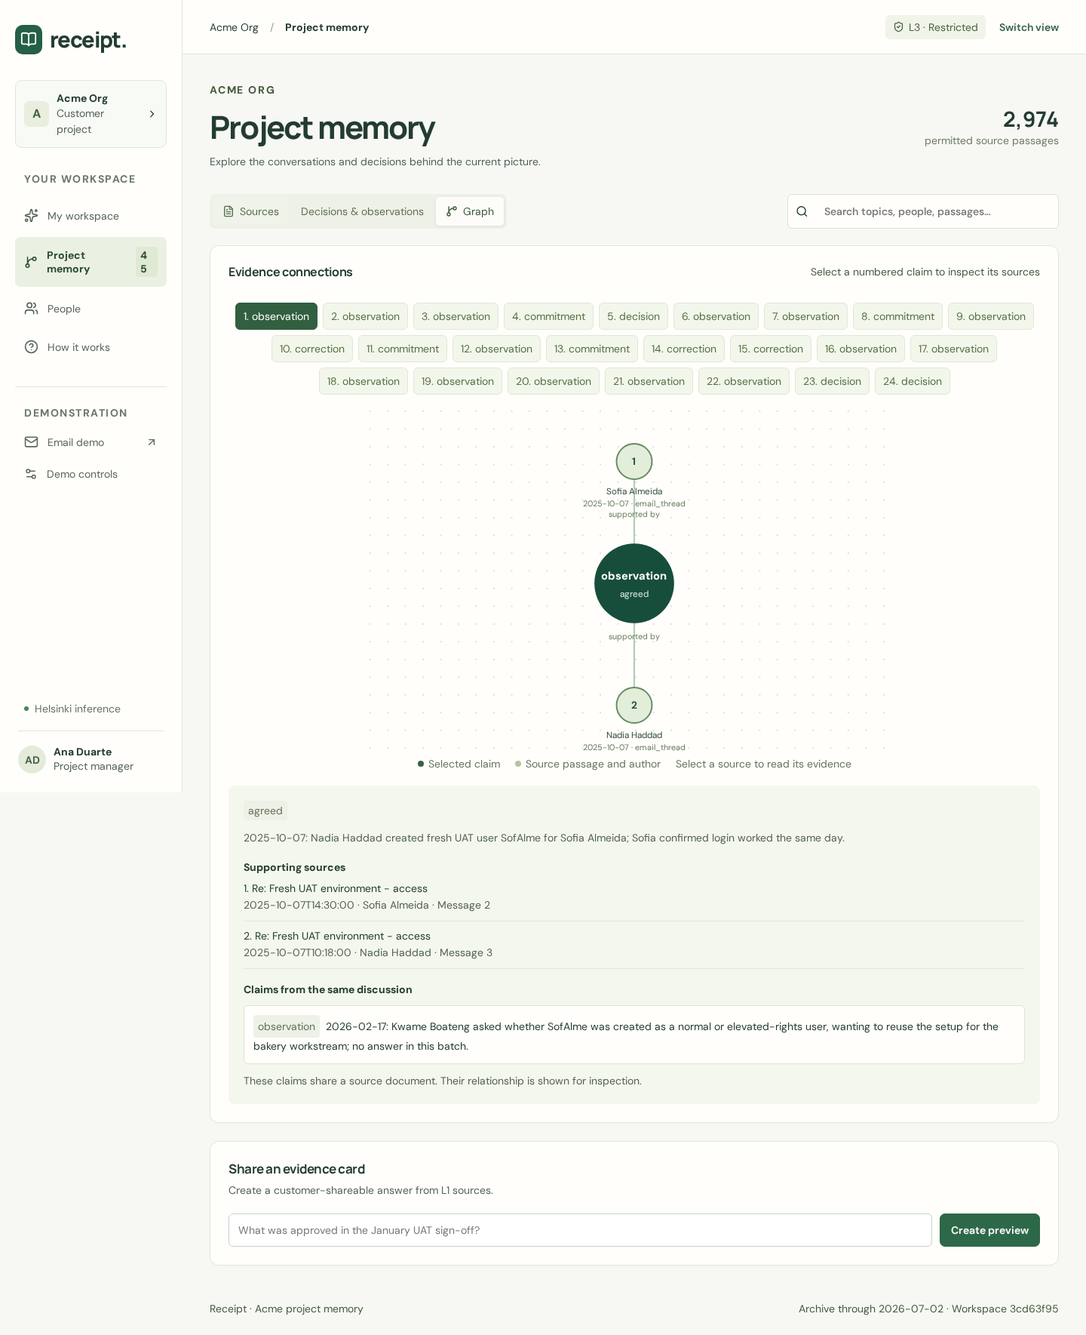
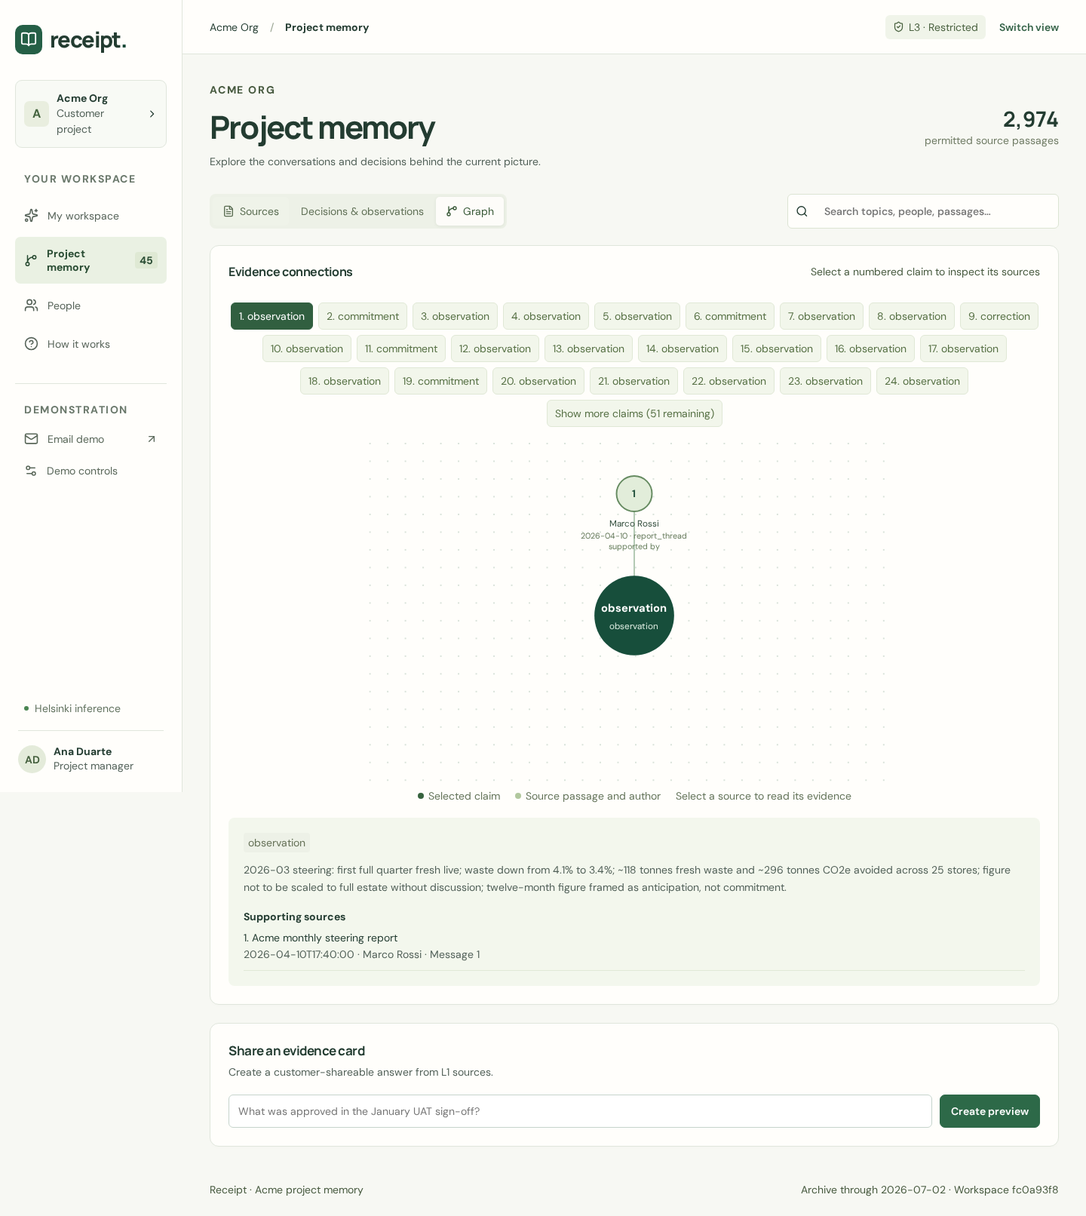
Record final public validation and reviewed captures

diff --git a/docs/practice_review.md b/docs/practice_review.md
@@ -1,26 +1,26 @@
-# Independent practice review
+# Earlier practice evaluation
 
-The reference answers in `practice_reference.md` were prepared directly from source records. `PRACTICE_ANSWERS.md` and `practice_live/` contain actual live-workflow outputs. Generation success and citation binding are recorded separately from semantic review. The runner adds evidence-handling reminders to some questions, such as distinguishing assessment from remediation and covering the chronology. For P7 it performs erasure first and asks about surviving evidence without repeating the erased identity. The exact prompts are printed with the live answers. The final P1/P3/P8 round uses the original supplied questions and the ordinary chat intent/research path in empty disposable workspaces; earlier rounds used the answer workflow’s evaluation mode.
+This page records initial and intermediate evaluations. The latest controlled P1/P3/P8 outputs and remaining limits are in [model_quality_review.md](model_quality_review.md). The reference answers in `practice_reference.md` were prepared directly from source records. `PRACTICE_ANSWERS.md` and `practice_live/` contain actual live-workflow outputs. Generation success and citation binding are recorded separately from semantic review. The runner adds evidence-handling reminders to some questions, such as distinguishing assessment from remediation and covering the chronology. For P7 it performs erasure first and asks about surviving evidence without repeating the erased identity. The exact prompts are printed with the live answers. The final P1/P3/P8 round uses the original supplied questions and the ordinary chat intent/research path in empty disposable workspaces; earlier rounds used the answer workflow’s evaluation mode.
 
 ## Initial run
 
 P1 and P2 took 126.4 and 130.1 seconds respectively. P1 contained valid source excerpts with incorrect inline citation numbers. P2 correctly identified the missing service-level mapping, but exposed commentary about editing its draft. Both original outputs and timings are preserved in `practice_initial_answers.md` and `practice_initial_evaluation.json`. The workflow was subsequently changed to return structured statements and assign citation numbers on the server.
 
-## Current run
+## Intermediate evaluated runs
 
-The first complete structured-verifier outputs are preserved in `practice_previous_run/`; the second run is preserved in `practice_second_run/`. Intermediate reruns are preserved in `practice_third_run/` and `practice_fourth_run/`. Current outputs are under `practice_live/`.
+The first complete structured-verifier outputs are preserved in `practice_previous_run/`; the second run is preserved in `practice_second_run/`. Intermediate reruns are preserved in `practice_third_run/` and `practice_fourth_run/`. Machine outputs under `practice_live/` can include later reruns; the table below describes the evaluated intermediate versions and retains their observed defects.
 
-| Question | Review |
-| --- | --- |
-| P1 | Latest original-question research run took 210.6 seconds and returned three citations from 281 inventory observations. Exact September 30 counts and the workshop’s 31%/48% figures are supported. It omits clean store/product hierarchy, seven-day default lead times and approximate cohort/remediation counts. Its verifier trace incorrectly claims no other September source reports additional figures. |
-| P2 | Passed on rerun: 98/95 agreement and signatory are supported, and the category mapping is explicitly unrecorded. Seven citations bind correctly. Raw short source handles remain in prose alongside numeric references. |
-| P3 | Latest ordinary-chat run (91.3 seconds, nine citations) finds September 2024 but wrongly attributes Kwame’s “I do not need to receive it” to Nadia. Its November condition citation contains only “Then either”, omitting the completing turns. The verifier trace repeats the wrong speaker despite correct author metadata on the attached source. Empty citation-bracket punctuation also remains. Attribution verification does not pass. |
-| P4 | Rerun correctly gives limited scope, Lena as signatory, exact email wording and nine valid citations. The earlier date-arithmetic mistake is resolved. It still omits the unavailable-signed-attachment caveat; the email confirmations support the answer. |
-| P5 | Rerun passes core chronology and scope: half-range estimates, dated 48% measurements, latest 61% for three categories. Twelve citations bind. It omits the September 2025 retrospective repetition of the earlier half-range estimate, which is not a new measurement. The earlier inference failure is preserved. |
-| P6 | Rerun passes the scope change and current separate Meridian workstream with 13 relevant citations. A timeline heading starts in March 2024 although its earliest specific bakery-scope citation is July 2024; that date label needs qualification. |
-| P7 | Latest rerun passes core erasure behavior: 115 withdrawn records, 35 surviving citations, independent 780/1,317, later 48% and 25-store evidence retained with other people named. The earlier recovery recommendation and estimate label are resolved. It describes the transcript as fragmented and says “pending any original assessment”; explicitly explaining withdrawn evidence would be clearer. It does say not to reconstruct the missing September documents. |
-| P8 | Latest original-question research run took 327.1 seconds and returned 51 citations from 211 inventory observations. It again selects obtaining the shelf-life field, explicitly acknowledges that the promise to chase was fulfilled, and then calls obtaining the field an unfulfilled agreement without establishing that delivery commitment. It infers that Ana failed to turn the thread into a decision. The deletion-location list remains the clearer explicit commitment. Raw canonical source IDs remain in prose. |
-| P9 | Passed the core evidence distinction. It cites the June reconciliation finding, preserves the missing discrepancy figure and cause, and distinguishes job/file-arrival status from content validation. Numeric citations bind to the appropriate original passages. |
+| Question | Review                                                                                                                                                                                                                                                                                                                                                                                                                                                                                                                       |
+| -------- | ---------------------------------------------------------------------------------------------------------------------------------------------------------------------------------------------------------------------------------------------------------------------------------------------------------------------------------------------------------------------------------------------------------------------------------------------------------------------------------------------------------------------------- |
+| P1       | Latest original-question research run took 210.6 seconds and returned three citations from 281 inventory observations. Exact September 30 counts and the workshop’s 31%/48% figures are supported. It omits clean store/product hierarchy, seven-day default lead times and approximate cohort/remediation counts. Its verifier trace incorrectly claims no other September source reports additional figures.                                                                                                               |
+| P2       | Passed on rerun: 98/95 agreement and signatory are supported, and the category mapping is explicitly unrecorded. Seven citations bind correctly. Raw short source handles remain in prose alongside numeric references.                                                                                                                                                                                                                                                                                                      |
+| P3       | Latest ordinary-chat run (91.3 seconds, nine citations) finds September 2024 but wrongly attributes Kwame’s “I do not need to receive it” to Nadia. Its November condition citation contains only “Then either”, omitting the completing turns. The verifier trace repeats the wrong speaker despite correct author metadata on the attached source. Empty citation-bracket punctuation also remains. Attribution verification does not pass.                                                                                |
+| P4       | Rerun correctly gives limited scope, Lena as signatory, exact email wording and nine valid citations. The earlier date-arithmetic mistake is resolved. It still omits the unavailable-signed-attachment caveat; the email confirmations support the answer.                                                                                                                                                                                                                                                                  |
+| P5       | Rerun passes core chronology and scope: half-range estimates, dated 48% measurements, latest 61% for three categories. Twelve citations bind. It omits the September 2025 retrospective repetition of the earlier half-range estimate, which is not a new measurement. The earlier inference failure is preserved.                                                                                                                                                                                                           |
+| P6       | Rerun passes the scope change and current separate Meridian workstream with 13 relevant citations. A timeline heading starts in March 2024 although its earliest specific bakery-scope citation is July 2024; that date label needs qualification.                                                                                                                                                                                                                                                                           |
+| P7       | Latest rerun passes core erasure behavior: 115 withdrawn records, 35 surviving citations, independent 780/1,317, later 48% and 25-store evidence retained with other people named. The earlier recovery recommendation and estimate label are resolved. It describes the transcript as fragmented and says “pending any original assessment”; explicitly explaining withdrawn evidence would be clearer. It does say not to reconstruct the missing September documents.                                                     |
+| P8       | Latest original-question research run took 327.1 seconds and returned 51 citations from 211 inventory observations. It again selects obtaining the shelf-life field, explicitly acknowledges that the promise to chase was fulfilled, and then calls obtaining the field an unfulfilled agreement without establishing that delivery commitment. It infers that Ana failed to turn the thread into a decision. The deletion-location list remains the clearer explicit commitment. Raw canonical source IDs remain in prose. |
+| P9       | Passed the core evidence distinction. It cites the June reconciliation finding, preserves the missing discrepancy figure and cause, and distinguishes job/file-arrival status from content validation. Numeric citations bind to the appropriate original passages.                                                                                                                                                                                                                                                          |
 
 A subsequent P3 run was interrupted before publication to give the model-quality agent a controlled inference slot; the current P3 file remains the completed attribution-failure result above. Subsequent model-quality changes need their own measured evaluation.
 

diff --git a/docs/VALIDATION.md b/docs/VALIDATION.md
@@ -6,7 +6,7 @@ Receipt is available at https://receipt-workspace.hai1.iffe.eu. This record sepa
 
 The final deterministic suite passes 35 tests, including commitment selection and submission-document boundaries. Svelte check reports zero errors and warnings, and the production build succeeds. Tests cover all 2,974 imported records; project/level and direct-source boundaries; owner isolation; fresh L1 sharing context; mail audience/idempotency; multiple-person erasure, aliases and nearby references; erased-owner preferences; stale generation rejection; mail outage/retry; structured-output repair; and exact source excerpt trimming.
 
-Four original Playwright workflows cover navigation/source inspection/simulator delivery, private preference persistence and identity isolation, foreign-project source denial, and desktop/mobile accessibility. The stable public rerun passed all four tests in 18.2 seconds. A fifth document-viewer workflow passed locally before final deployment. The earlier passing run used controlled data. A later public test initially omitted its POST Origin header and therefore failed to switch identity; the corrected test explicitly checks successful switching.
+Four original Playwright workflows cover navigation/source inspection/simulator delivery, private preference persistence and identity isolation, foreign-project source denial, and desktop/mobile accessibility. The stable public rerun passed all four tests in 18.2 seconds. The final release passed all five public browser workflows in 21.6 seconds, including the document viewer. The earlier passing run used controlled data. A later public test initially omitted its POST Origin header and therefore failed to switch identity; the corrected test explicitly checks successful switching.
 
 The final deployment uses immutable release directories and an atomic `.releases/current` symlink. This followed a review finding that replacing a live build directory could briefly mix browser assets. Fresh stable-release review passed at 00:14 UTC on 20 September: HTTPS 200, all six prepared persona/access briefs, Nadia's source navigation and direct GET 200, simulator labels, mobile width and no JavaScript errors.
 
@@ -62,7 +62,7 @@ Complex exhaustive/chronology questions now use a bounded, document-balanced inv
 | A27–30 erasure                                           | Multiple-person deterministic erasure, live post-Kwame answer, in-flight answer/mail rejection, source viewer and restart checks. Arbitrary semantic coreference remains heuristic.                                                                                                                                                                              |
 | A31–33 reset, recovery, persistence                      | Isolated reset and restart pass; inference outage/retry and durable jobs are tested.                                                                                                                                                                                                                                                                             |
 | A34 dates                                                | Original source positions/local dates preserved; demo dates and actual Helsinki generation time labelled.                                                                                                                                                                                                                                                        |
-| A35–36 browser and public access                         | Public stable-release reviewer passed navigation, all modes, mobile overflow and JavaScript-error checks. Final automated public rerun passed four workflows; desktop/mobile, email, people, memory, graph and full-source screenshots were captured and visually reviewed after the passing browser checks.                                                     |
+| A35–36 browser and public access                         | Public stable-release reviewer passed navigation, all modes, mobile overflow and JavaScript-error checks. Final automated public rerun passed five workflows; desktop/mobile, email, people, memory, graph, full-source and submission screenshots were captured and visually reviewed after the passing checks.                                                 |
 | A37 submission                                           | Design, solution guide, pitch, independent reference and actual generated practice answers exist. Documents are accessible through How it works and allowlisted submission routes. Original-archive reference views/downloads are withdrawn after erasure and require L3.                                                                                        |
 | A38–39 midway history and audience changes               | Deterministic midway-only ingestion and recipient-floor tests pass; external context excludes employee-private and higher-level evidence.                                                                                                                                                                                                                        |
 
@@ -77,3 +77,9 @@ Identity selection, email transport and calendar input are explicit demonstratio
 The updated exact-record inventory was measured with original practice prompts. P1 completed in 84.9 seconds with six citations, retaining exact September30 counts but omitting workshop findings and incorrectly qualifying some counts. P3 completed in 74.8 seconds with 22 citations: November speaker attribution improved, but the September2024 removal agreement was missed and November was incorrectly called earliest. These results are preserved in the public [latest model review](model_quality_review.md), together with complete generated outputs and the P8 improvement. The reviewed submission answers supply the independently checked interpretation; they do not represent automatic model passes.
 
 Research answers now explicitly identify their selected-evidence scope. The final wording changes ask for dated occurrences found by the search rather than global earliest/latest assertions. Those wording changes have not received new live P1/P3/P8 runs; the preserved measured failures remain the semantic evaluation.
+
+## Final release
+
+Code commit `846a491` runs from immutable release `2026-09-20T00-38-46-293Z`. The final public restart/erasure check passed at 00:39:28 UTC on 20 September 2026, including reference-view and download withdrawal. Normal-TLS external availability returned HTTP200 in 0.857 seconds. The complete public browser suite passed five tests in 21.6 seconds. The selected-evidence wording change was followed by a clean type check and nine passing affected workflow tests; the preceding complete suite passed all 35 tests.
+
+Public document entry points are `/submission/design`, `/submission/answers` and `/submission/quality`, also linked from How it works. They require Acme membership, L3 and an unerased workspace. Original fixtures are not exposed by file-serving routes.

diff --git a/docs/STATUS.md b/docs/STATUS.md
@@ -1,21 +1,23 @@
 # Implementation status
 
-Receipt is deployed at https://receipt-workspace.hai1.iffe.eu on port 34342 through the `receipt-workspace.service` user service. All agreed product surfaces are implemented: personal morning briefs and memory, project questions, source search and graph, people guidance, Outlook simulation, calendar preparation, customer PNG/text cards and scoped erasure.
+Receipt is deployed at https://receipt-workspace.hai1.iffe.eu on port 34342 through the `receipt-workspace.service` user service. Code commit `846a491` is running from immutable release `2026-09-20T00-38-46-293Z`.
+
+The agreed product surfaces are implemented: personal morning briefs and memory, project questions, source search and graph, people guidance, Outlook simulation, calendar preparation, customer PNG/text cards and scoped erasure. Submission documents are available from How it works. Source-bearing reference views and downloads require Acme L3 and are withdrawn after erasure in that workspace.
 
 ## Verified delivery
 
-- All 2,974 parsed records from 45 documents import with their original IDs and source positions.
-- The final deterministic suite passes 35 tests, including access boundaries, persona/level replay, private context, erasure of multiple identities, inference outage recovery and in-flight mail/answer erasure.
-- Four browser workflows passed on the public stable release in 18.2 seconds. Seven desktop/mobile/product/source views were captured and visually reviewed. Submission-document checks are included in the final release pass.
-- Every advertised employee/access mode has a prepared live-model brief: Ana L1/L2/L3, Marco L1/L2 and Nadia L1. Fresh public browser review confirmed all six appear immediately with citations.
-- Prepared semantic memory contains 35 L1, 38 L2 and 75 L3 entries. The L3 batch covers every supplied document and includes 41 transcript-derived entries. Exact-record schema repair, document-balanced selection and independent verification resolved missing transcript batches.
-- Live routine email ingestion stayed silent and created the scheduled calendar event in 37.4 seconds. A later question, linked briefing, UAT intervention, stakeholder guidance and L1 card all completed through live inference.
-- Natural Finnish personal-goal saving now uses a small request/private-preference context and passed in 9.4 seconds. It previously took 87 seconds through the full corpus.
-- Public preview/copy/PNG content agreement and image readability were reviewed. Source excerpts now omit transport banners and signatures while the source viewer retains the full record.
-- A public restart test preserved a personal preference and erasure epoch, retained a removed-source 404 and surviving adjacent-source 200, and verified isolated reset.
+- All 2,974 parsed records from 45 documents import with original IDs and positions.
+- The final deterministic suite passes 35 tests. Svelte check reports zero errors and warnings; production build succeeds.
+- All five public browser workflows pass, including desktop/mobile accessibility, identity/source boundaries, simulator delivery, private memory and submission-document access.
+- All six advertised employee/access modes have prepared live-model briefs: Ana L1/L2/L3, Marco L1/L2 and Nadia L1. Fresh public review observed immediate cited briefs in every mode.
+- Prepared semantic memory contains 35 L1, 38 L2 and 75 L3 entries. The L3 batch covers all 45 documents, including 41 transcript-derived entries.
+- Live routine email ingestion stayed silent and created the scheduled calendar event in 37.4 seconds. New-message questions, updated briefings, UAT intervention, stakeholder guidance and L1 cards completed through live inference.
+- Natural Finnish personal-goal saving passed in 9.4 seconds using the request and private preferences.
+- Public preview/copy/PNG agreement and readability were reviewed. Eight product/document views were captured and visually reviewed after functional checks.
+- The final public restart test preserved a personal preference and erasure epoch, retained removed-source 404 and surviving-source 200 responses, withdrew reference views/downloads, and verified isolated reset.
 
-## Remaining release work
+## Measured model limits
 
-Complex practice questions exposed incomplete inventories and incorrect speaker attribution despite valid citations. A partitioned evidence inventory now precedes exhaustive/chronology answers, and its original records feed the final answer and verifier. Final P1/P3 measurements still show incomplete historical coverage: P1 omits workshop findings, and P3 misses the September2024 agreement despite corrected November attribution. P8 now selects a real unfinished obligation but omits some follow-ups. Actual generated answers, earlier failures and independent references are retained separately.
+The latest P1 run still omits workshop figures and clean-data findings and makes unsupported qualifications. The latest P3 run corrects November speaker attribution but misses the September2024 agreement and overstates earliest evidence. P8 now selects a real unfinished obligation, but omits some follow-ups and initially overstated its temporal coverage. Research answers now state their selected-evidence scope; that wording change does not convert the measured failures into passes.
 
-The final release checks, public submission-document/erasure smoke and commit remain underway. Model semantics will be reported separately from deterministic boundary guarantees. An empty/incorrect output object receives one scoped schema retry; unrecoverable inference or verification failures remain visible with retry controls.
+The independently reviewed submission answers and actual model outputs remain separate. `model_quality_review.md` contains the latest controlled outputs, source IDs and precise findings. `VALIDATION.md` records the acceptance coverage, latency and earlier failures. Email transport, identity and calendar integrations are simulated; source interpretation and indirect identity matching retain the documented limits.
